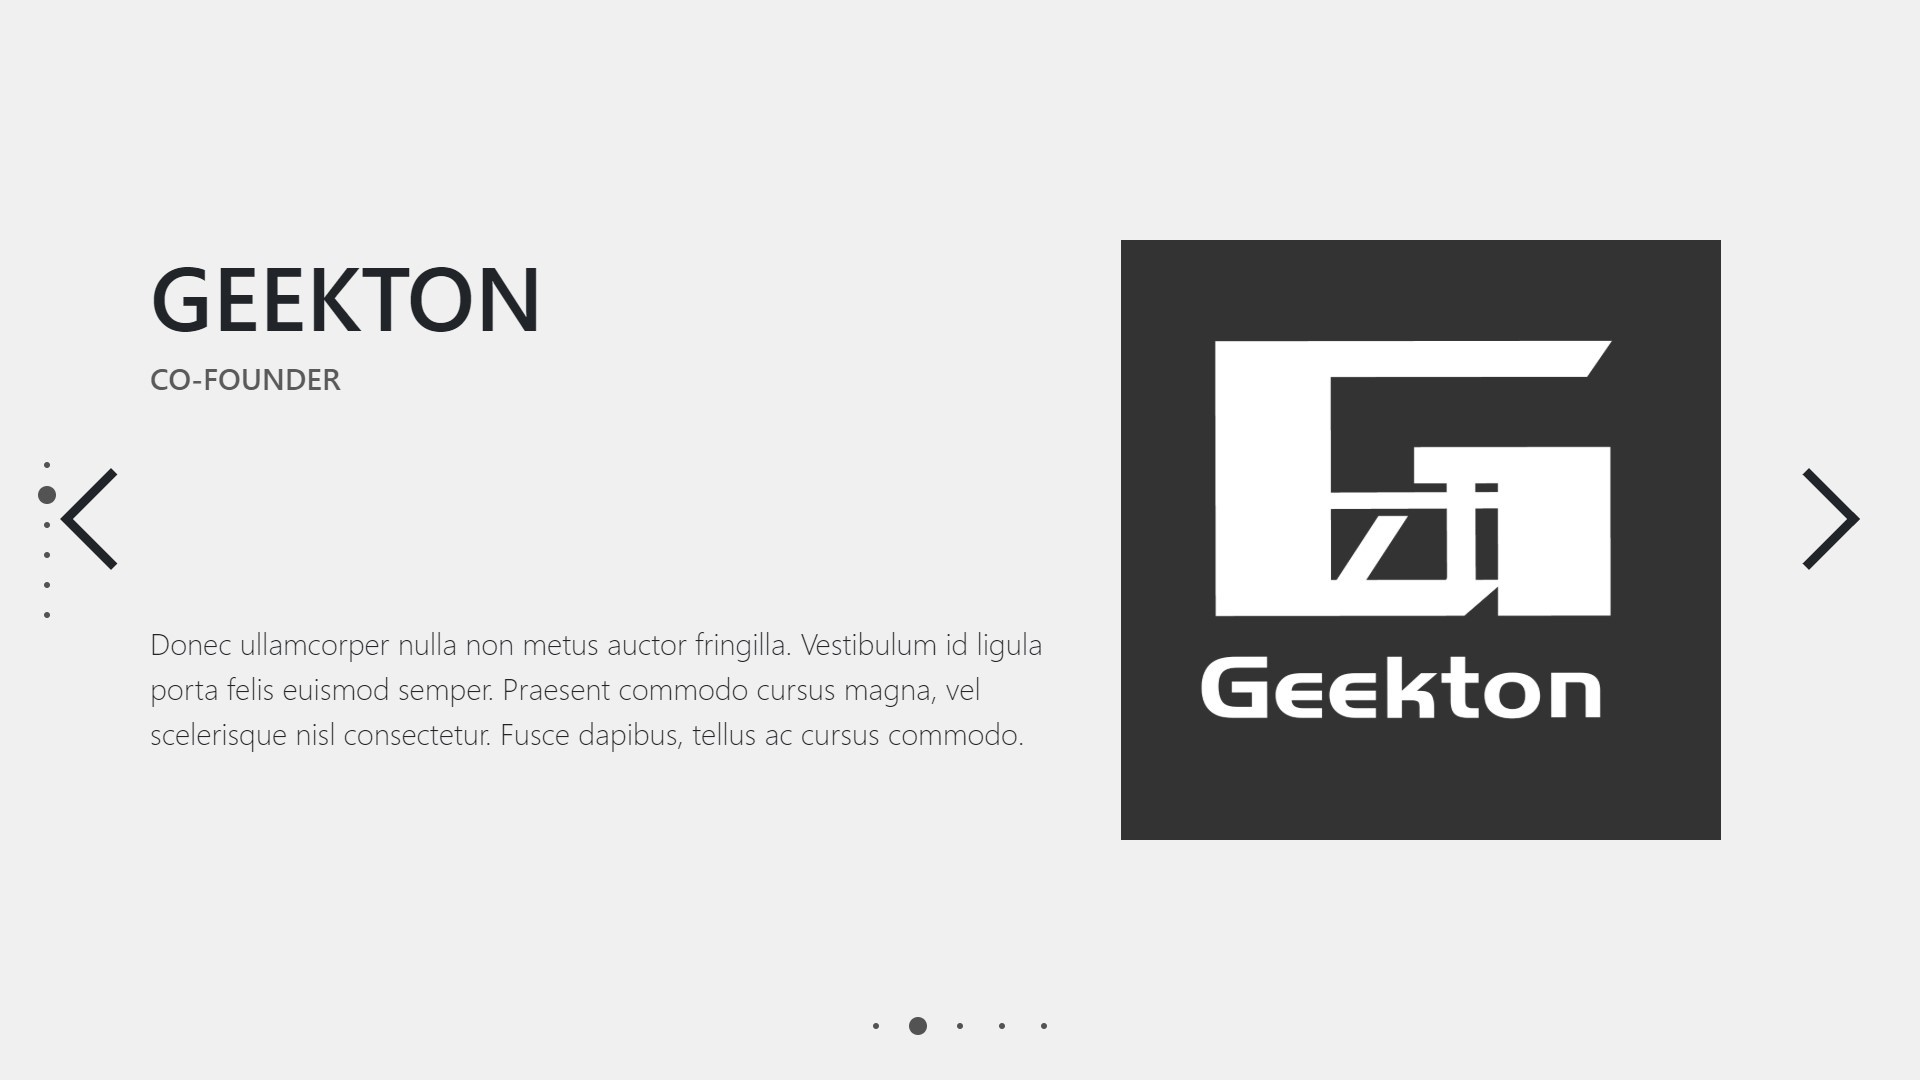
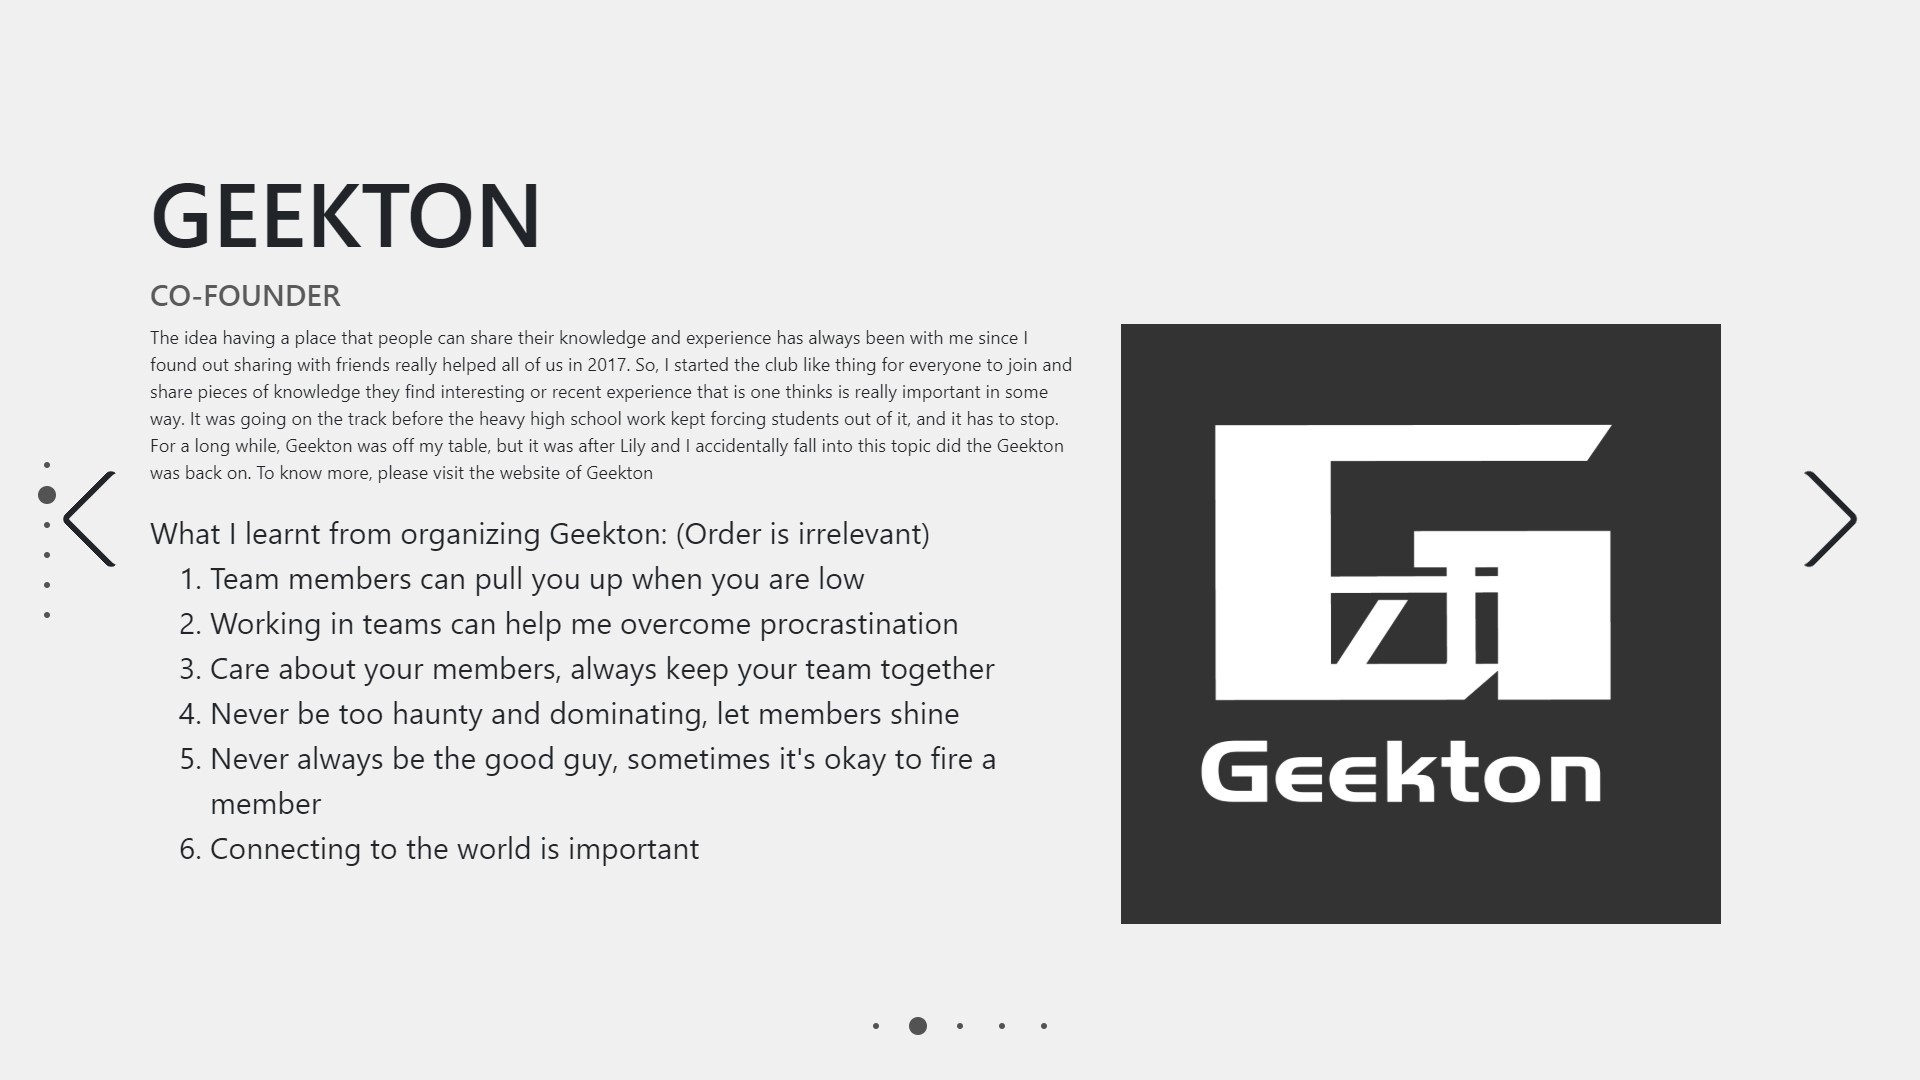
cohack and geekton done

diff --git a/index.html b/index.html
@@ -118,10 +118,21 @@
 
       <div class="slide fp-viewing-Team-Player-And-Leader-1" data-anchor="Geekton" id="Geekton">
         <div class="row featurette" style="padding-left:100px; padding-right: 100px">
-          <div class="col-lg-7">
+          <div class="col-lg-12">
             <h1 class="featurette-heading">GEEKTON</h1>
             <h5 class="font-color-5a5a5a">CO-FOUNDER</h5>
-            <p class="lead" style="margin-top: 150px">Donec ullamcorper nulla non metus auctor fringilla. Vestibulum id ligula porta felis euismod semper. Praesent commodo cursus magna, vel scelerisque nisl consectetur. Fusce dapibus, tellus ac cursus commodo.</p>
+          </div>
+          <div class="col-lg-7">
+            <p style="font-size: 12px">The idea having a place that people can share their knowledge and experience has always been with me since I found out sharing with friends really helped all of us in 2017. So, I started the club like thing for everyone to join and share pieces of knowledge they find interesting or recent experience that is one thinks is really important in some way. It was going on the track before the heavy high school work kept forcing students out of it, and it has to stop. For a long while, Geekton was off my table, but it was after Lily and I accidentally fall into this topic did the Geekton was back on. To know more, please visit the website of Geekton</p>
+            <p style="font-size: 20px; margin-bottom: 0px">What I learnt from organizing Geekton: (Order is irrelevant)</p>
+            <ol style="font-size: 20px">
+              <li>Team members can pull you up when you are low</li>
+              <li>Working in teams can help me overcome procrastination</li>
+              <li>Care about your members, always keep your team together</li>
+              <li>Never be too haunty and dominating, let members shine</li>
+              <li>Never always be the good guy, sometimes it's okay to fire a member</li>
+              <li>Connecting to the world is important</li>
+            </ol>
           </div>
           <div class="col-lg-5">
             <img src="Geekton-logo.png" width="400" height="400">
@@ -270,7 +281,7 @@
       <div class="slide" data-anchor="CoHack" id="CoHack">
         <div class="row featurette" style="padding-left:100px; padding-right: 100px">
           <div class="col-lg-6" style="margin: auto; display:inline-flex;flex-direction: column;align-items: center;-webkit-box-align: center;align-content: center;vertical-align: middle">
-            <p>Donec ullamcorper nulla non metus auctor fringilla. Vestibulum id ligula porta felis euismod semper. Praesent commodo cursus magna, vel scelerisque nisl consectetur. Fusce dapibus, tellus ac cursus commodo.</p>
+            <p>At first, I was so excited to be among all those great people attending CoHack, but on the other hand I also felt a bit struck by how little I know about the programming world. I was afraid to even to talk to the ones around me. For the first few month I listen to what others are talking about and learn, and I learnt a lot by listening what others and talking about and search it afterwards on the internet. Later as I gradually pulled myself together and I started talking to all these interesting people, and the ideas and knowledges they pass to me, really benefit me a lot.</p>
             <div class="row">
               <div class="col-lg-6">
                 <h1 class="featurette-heading" style="margin-top: 35px"><a href="https://www.linkedin.com/school/cohack/" style="color:#e0e0e0" target="_blank">COHACK</a></h1>
@@ -281,7 +292,7 @@
                 </video>
               </div>
             </div>
-            <p>Donec ullamcorper nulla non metus auctor fringilla. Vestibulum id ligula porta felis euismod semper. Praesent commodo cursus magna, vel scelerisque nisl consectetur. Fusce dapibus, tellus ac cursus commodo.</p>
+            <p>I started my role in CoHack by setting up for the events, setting up for events can be a more than just moving chairs and tables around. To do a great job, we need to consider issues like how the meet-up is like, or how many people will be in this room, etc. Then after Mo has taught how to use a camera proffesionally, I started my role of being a photographer for the CoHack meet-ups. I don't know what else I will do in the CoHack, but doing all those things are fun, and I also learn a lot of in the process.</p>
           </div>
           <div class="col-lg-6" style="padding-top: 20px">
             <img src="cohack.png" height="500px">

diff --git a/style.css b/style.css
@@ -182,7 +182,7 @@ body > .dg {
     top:0;
     height: 100%;
     width: 100%;
-    background-color: rgba(34, 34, 34, 0.8);
+    background-color: transparent;
     backdrop-filter: blur(10px);
     -webkit-backdrop-filter: blur(10px);
     -o-backdrop-filter: blur(10px);
